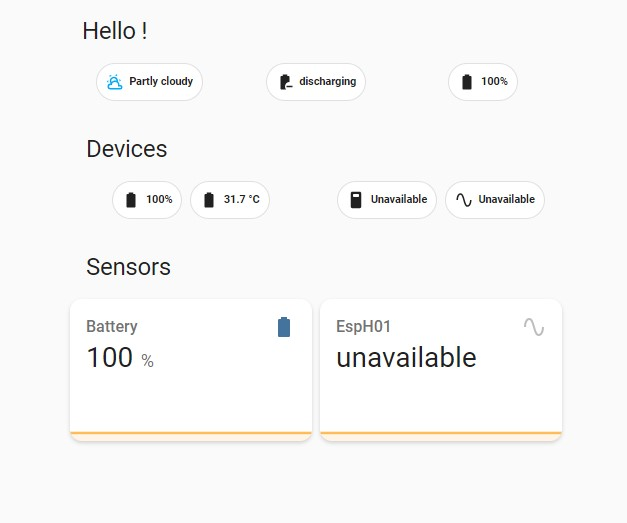
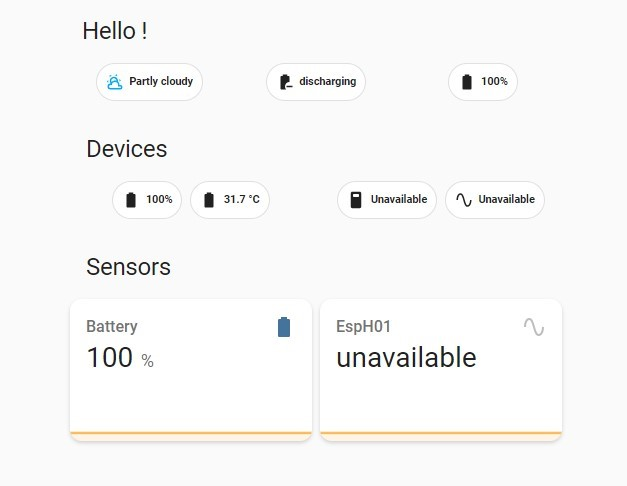
updated

diff --git a/README.md b/README.md
@@ -70,7 +70,7 @@ Transform your home into a smart space with this Home Assistant project. Easily 
 
 **Here is example of controlling A Led and monitoring value of an analog sensor**
 
-<img align = "right" width="400" height="400" src="./docs/EspHome_Sample.jpg">
+<img align = "right" width="600" height="400" src="./docs/EspHome_Sample.jpg">
 
 ```yaml
 
